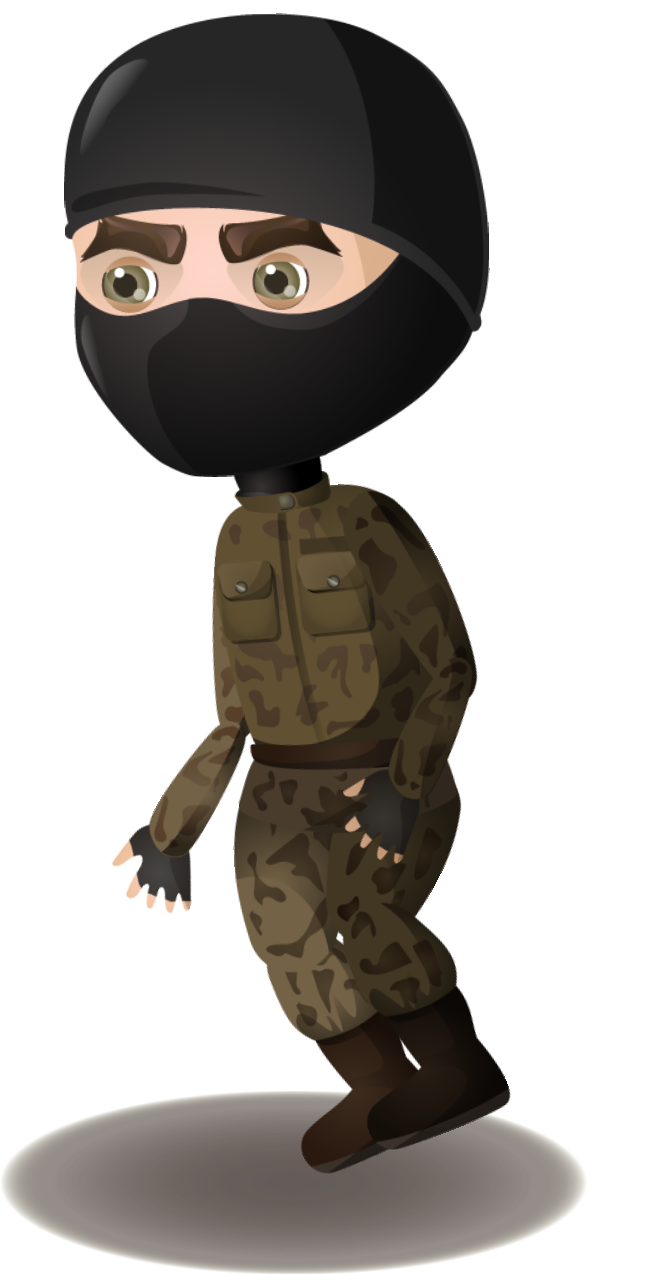
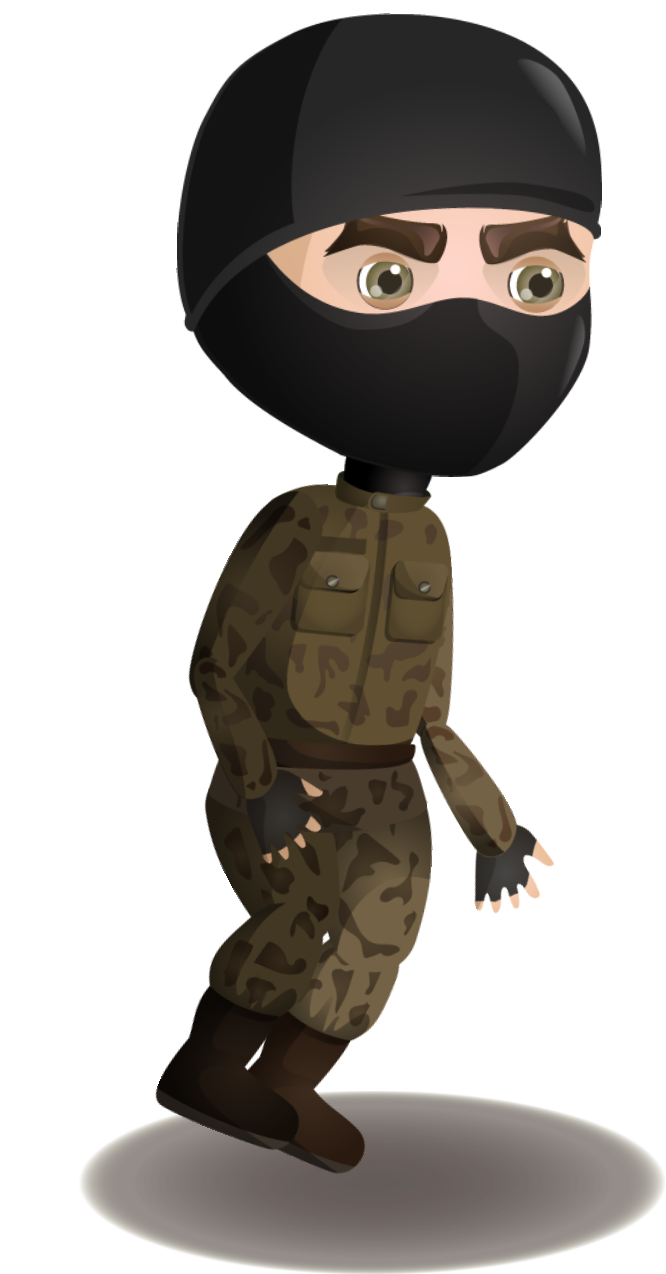
cleaner code

diff --git a/models/character.class.js b/models/character.class.js
@@ -1,6 +1,6 @@
 class Character extends MovableObject {
   speed = 10;
-  y = 80;
+  height = 200;
 
   IMAGES_WALKING = [
     "img/policeman/png/3/walk/3_police_Walk_000.png",
@@ -12,13 +12,24 @@ class Character extends MovableObject {
     "img/policeman/png/3/walk/3_police_Walk_006.png",
     "img/policeman/png/3/walk/3_police_Walk_007.png",
   ];
+
+  IMAGES_JUMPING = [
+    "img/policeman/png/3/jump/3_police_Jump_000.png",
+    "img/policeman/png/3/jump/3_police_Jump_001.png",
+    "img/policeman/png/3/jump/3_police_Jump_002.png",
+    "img/policeman/png/3/jump/3_police_Jump_003.png",
+    "img/policeman/png/3/jump/3_police_Jump_004.png",
+    "img/policeman/png/3/jump/3_police_Jump_005.png",
+    "img/policeman/png/3/jump/3_police_Jump_006.png",
+    "img/policeman/png/3/jump/3_police_Jump_007.png",
+  ];
   world;
   walking_sound = new Audio("audio/walking.mp3");
-  currentImage = 0;
 
   constructor() {
     super().loadImage("img/policeman/png/3/walk/3_police_Walk_000.png");
     this.loadImages(this.IMAGES_WALKING);
+    this.loadImages(this.IMAGES_JUMPING);
     this.applyGravity();
     this.animate();
   }
@@ -27,24 +38,36 @@ class Character extends MovableObject {
     setInterval(() => {
       this.walking_sound.pause();
       if (this.world.keyboard.RIGHT && this.x < this.world.level.level_end_x) {
-        this.x += this.speed;
-        this.otherDirection = false;
+        this.moveRight();
         this.walking_sound.play();
       }
       if (this.world.keyboard.LEFT && this.x > 0) {
-        this.x -= this.speed;
-        this.otherDirection = true;
+        this.moveLeft();
         this.walking_sound.play();
       }
+
+      if (
+        (this.world.keyboard.UP || this.world.keyboard.SPACE) &&
+        !this.isAboveGround()
+      ) {
+        this.jump();
+      }
+
       this.world.camera_x = -this.x + 100;
     }, 1000 / 60);
 
     setInterval(() => {
-      if (this.world.keyboard.RIGHT || this.world.keyboard.LEFT) {
-        this.playAnimation(this.IMAGES_WALKING);
+      if (this.isAboveGround()) {
+        this.playAnimation(this.IMAGES_JUMPING);
+      } else {
+        if (this.world.keyboard.RIGHT || this.world.keyboard.LEFT) {
+          this.playAnimation(this.IMAGES_WALKING);
+        }
       }
     }, 50);
   }
 
-  jump() {}
+  jump() {
+    this.speedY = 30;
+  }
 }

diff --git a/models/movable-object.class.js b/models/movable-object.class.js
@@ -13,7 +13,7 @@ class MovableObject {
 
   applyGravity() {
     setInterval(() => {
-      if (this.isAboveGround()) {
+      if (this.isAboveGround() || this.speedY > 0) {
         this.y -= this.speedY;
         this.speedY -= this.acceleration;
       }
@@ -53,10 +53,17 @@ class MovableObject {
   }
 
   moveRight() {
-    console.log("Moving right");
+    this.x += this.speed;
+    this.otherDirection = false;
+    this.walking_sound.play();
   }
 
   moveLeft() {
-    setInterval(() => (this.x -= this.speed), 1000 / 60);
+    this.x -= this.speed;
+    this.otherDirection = true;
+  }
+
+  jump() {
+    this.speedY = 30;
   }
 }

diff --git a/models/gangster.class.js b/models/gangster.class.js
@@ -23,6 +23,9 @@ class Gangster extends MovableObject {
   }
 
   animate() {
+    setInterval(() => {
+      this.moveLeft();
+    }, 1000 / 60);
     this.moveLeft();
 
     setInterval(() => {

diff --git a/style.css b/style.css
@@ -3,7 +3,7 @@ body {
   display: flex;
   flex-direction: column;
   align-items: center;
-  justify-content: center;
+  /* justify-content: center; */
 }
 
 canvas {
